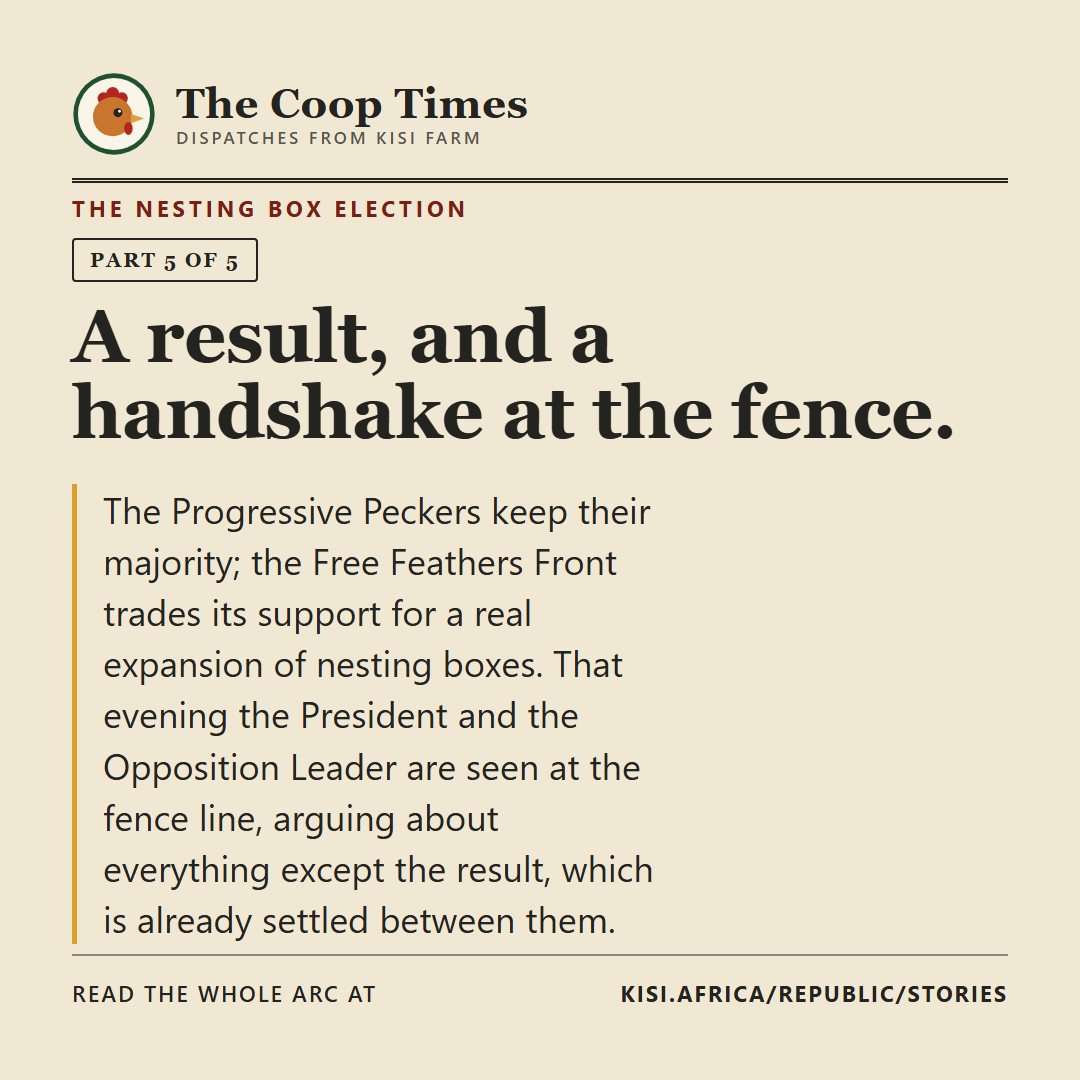
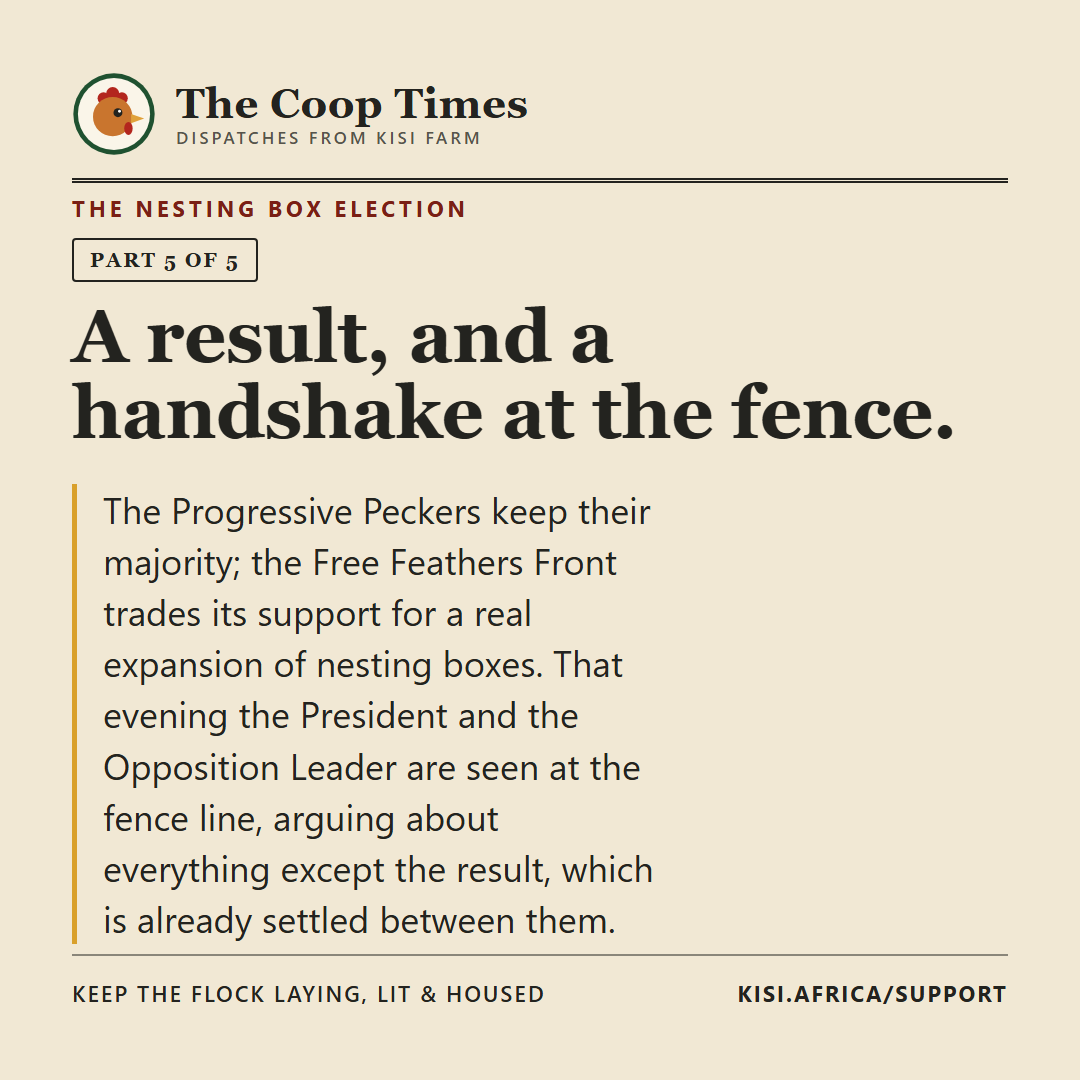
feat(social): route arc finales to Support/Order; standing funnel rule
- Election finale (post 12) footer now routes to kisi.africa/support
  ("keep the flock laying, lit & housed"); caption 12 sends readers to
  support and shop. Post 12 re-rendered.
- README standing rule added: every story arc ends on a sell (support or
  shop); name the Solar & Light and Better Housing $25,000 campaigns when
  an arc touches light, power or housing.

Changed region(s): [[0.0611, 0.9167, 0.4889, 0.9472], [0.5806, 0.9167, 0.9472, 0.9472]]

diff --git a/social/posts/12-election-5.html b/social/posts/12-election-5.html
@@ -22,7 +22,7 @@
 
   <div>
     <div class="rule"></div>
-    <div class="foot"><span>Read the whole arc at</span><span class="site">kisi.africa/republic/stories</span></div>
+    <div class="foot"><span>Keep the flock laying, lit &amp; housed</span><span class="site">kisi.africa/support</span></div>
   </div>
 </div>
 </body>

diff --git a/social/README.md b/social/README.md
@@ -21,6 +21,13 @@ Every image is a **1080 x 1080 PNG** in `images/`, built from the same look as t
   the image.)
 - **House style:** humorous, warm, dignified. No em-dashes. Real animals, so no cruelty,
   distress or death played for shock.
+- **STANDING RULE, the funnel: every arc ends on a sell.** The entertainment exists to
+  drive two money paths, and the posts must route to them. The last slide of every story
+  arc closes with **kisi.africa/support** (keep the flock laying, lit and housed) or
+  **kisi.africa/shop** (order eggs). Cast intros send people to meet the flock; arcs and
+  finales send them to support and order. The two biggest support campaigns are **Solar &
+  Light** and **Better Housing**, $25,000 each, so name them when an arc touches light,
+  power, coops or housing.
 
 ## What is built (batch 1, 12 posts)
 

diff --git a/social/captions.md b/social/captions.md
@@ -81,8 +81,9 @@ Alliance finds deeply suspicious, and says so. 📊
 Part 5 of 5, the finale. The Progressive Peckers keep their majority; the Free Feathers
 Front trades its support for a real expansion of nesting boxes. That evening the President
 and the Opposition Leader are seen at the fence line, arguing about everything except the
-result, which is already settled between them. Read the whole arc at
-kisi.africa/republic/stories. 🤝
+result, which is already settled between them. The nesting boxes get built because the
+farm is real: keep the flock laying, lit and housed at kisi.africa/support, or order eggs
+at kisi.africa/shop. 🤝
 
 ---
 
